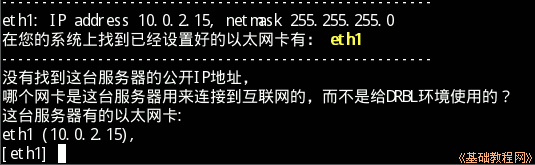
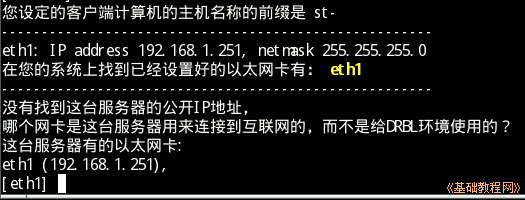
add Tedrbl/lesson3

diff --git a/linux/Tedrbl/lesson3/lesson3.html b/linux/Tedrbl/lesson3/lesson3.html
@@ -4,6 +4,11 @@
 
 
 
+
+
+
+
+
   <meta content="text/html; charset=UTF-8" http-equiv="content-type" />
   <meta name="author" content="TeliuTe" />
   <meta name="Copyright" content="TeliuTe,基础教程网" />
@@ -11,41 +16,110 @@
   <meta name="keywords" content="DRBL,无盘,教程,TeliuTe,教学,基础,入门" />
 
   <link rel="stylesheet" href="../css/css.css" type="text/css" />
-  <link rel="Shortcut  Icon" href="../css/qcqy.ico" /><title>DRBL 基础|</title></head><body style="direction: ltr;">
+  <link rel="Shortcut  Icon" href="../css/qcqy.ico" /><title>DRBL 基础|生成客户机系统</title></head><body style="direction: ltr;">
 <p class="title">DRBL 操作指南</p>
 <p class="green">作者：TeliuTe　来源：基础教程网</p>
-<span class="tblue">一、</span>　<a href="../index.html">返回目录</a>　<a href="../lesson/lesson.html">下一课</a>
-<p>　；</p>
-<p class="tblue">　1、</p>
-<p>　1）；</p>
+<span class="tblue">三、生成客户机系统</span>　<a href="../index.html">返回目录</a>　<a href="../lesson4/lesson4.html">下一课</a>
+<p>　服务端程序安装好以后，就可以安装客户机的启动系统；</p>
+<p class="tblue">　1、生成客户机系统</p>
+<p>　1）进入终端，输入命令 &nbsp;sudo /opt/drbl/sbin/drblpush -i</p>
+<p>　<img src="images/a1dpb.png" alt="a1dpb.png" /></p>
 <p>　</p>
+<p>　2）在出来的域名服务器地址中输入DNS，或者直接按回车；</p>
+<p>　<img src="images/a2dns.png" alt="a2dns.png" /></p>
 <p>　</p>
-<p>　2）；</p>
+<p>　3）接下来的 NIS/YP 服务系统，直接按回车或输入一个名称；</p>
+<p>　<img src="images/a3nis.png" alt="a3nis.png" /></p>
 <p>　</p>
+<p>　4）接下来是客户机的名称前缀，输入 st-</p>
+<p>　<img src="images/a4pre.png" alt="a4pre.png" /></p>
 <p>　</p>
-<p>　3）；</p>
+<p>　5）接下来是搜索服务器的网卡，一般是 eth0 也可能是 eth1，直接按回车；</p>
+<p>　<img src="images/a5eth1.png" alt="a5eth1.png" /></p>
 <p>　</p>
+<p>　6）接下来提示服务器上只找到一块网卡，是否继续，输入 y 按回车继续；</p>
+<p>　<img src="images/a6y.png" alt="a6y.png" /></p>
 <p>　</p>
-<p>　4）；</p>
+<p>　7）接下来询问是否收集客户机的网卡信息，输入 y 然后按回车；</p>
+<p>　<img src="images/a7con.png" alt="a7con.png" /></p>
 <p>　</p>
+<p class="tblue">　2、收集客户机网卡信息</p>
+<p>　1）提示开始收集，这时开启下面的客户机，并选择从网络启动；</p>
+<p>　<img src="images/a8coll.png" alt="a8coll.png" /></p>
 <p>　</p>
-<p>　5）；</p>
+<p>　2）等所有客户机都开启后，回到服务器按一下 1，看看收集的数量(Total)是否跟预期相同，再输入 2 完成；</p>
+<p>　<img src="images/a9coll.png" alt="a9coll.png" /></p>
 <p>　</p>
+<p>　3）接下来询问是否每次都分配相同 IP，输入 y 按回车继续；</p>
+<p>　<img src="images/b1ip.png" alt="b1ip.png" /></p>
 <p>　</p>
-<p>　6）；</p>
+<p>　4）接下来是客户机的网卡信息保存文件，直接按回车继续，默认存放在 /etc/drbl/macadr-eth0.txt，也可能是macadr-eth1.txt；</p>
+<p>　<img src="images/b2macadr.png" alt="b2macadr.png" /></p>
 <p>　</p>
+<p>　5）接下来是客户机 IP 地址的起始值，一般是从2开始，输入2按回车继续；</p>
+<p>　<img src="images/b3ipst.png" alt="b3ipst.png" /></p>
 <p>　</p>
-<p>　7）；</p>
+<p>　6）然后是确认 IP 是否正确，检查一下输入 y 按回车继续；</p>
+<p>　<img src="images/b4con.png" alt="b4con.png" /></p>
 <p>　</p>
+<p>　7）然后出来一个当前的简介，按回车键继续；</p>
+<p>　<img src="images/b4con1.png" alt="b4con1.png" /></p>
 <p>　</p>
-<p>　8）；</p>
+<p class="tblue">　3、客户机系统</p>
+<p>　1）在出来的客户机系统模式中输入1，这是tmpfs模式，客户机的系统配置不会被随意修改；</p>
+<p>　<img src="images/b5tmfs.png" alt="b5tmfs.png" /></p>
 <p>　</p>
+<p>　2）接下来是再生龙系统的工作模式，同样选择1，这是用在系统备份和还原的系统；</p>
+<p>　<img src="images/b6cbox.png" alt="b6cbox.png" /></p>
 <p>　</p>
-<p>　9）；</p>
+<p>　3）接下来是询问用再生龙备份时的，备份文件存放路径，直接按回车即可，这儿存放客户机系统备份文件；</p>
+<p>　<img src="images/b7img.png" alt="b7img.png" /></p>
 <p>　</p>
+<p>　4）接下来询问是否使用客户机硬盘作为交换文件，输入y继续；</p>
+<p>　<img src="images/b8swap.png" alt="b8swap.png" /></p>
 <p>　</p>
-<p>　<span class="tblue">本节</span>学习了的基础知识，如果你成功地完成了练习，请继续学习下一课内容；</p>
-<p><a href="../index.html">返回目录</a>　<a href="../lesson/lesson.html">下一课</a></p>
+<p>　5）接下来询问用多大硬盘空间，直接按回车即可；</p>
+<p>　<img src="images/b9size.png" alt="b9size.png" /></p>
+<p>　</p>
+<p>　6）接下来是客户机的启动菜单，输入1按回车继续，选择图形模式；</p>
+<p>　<img src="images/c1pic.png" alt="c1pic.png" /></p>
+<p>　</p>
+<p>　7）接下来的客户机登录方式，输入1按回车，选择自动登录；</p>
+<p>　</p>
+<p><img src="images/c2login.png" alt="c2login.png" />　</p>
+<p>　8）接下来的客户机登录密码，输入 n ，也可以输入y自动生成；</p>
+<p><img src="images/c3psw.png" alt="c3psw.png" />　</p>
+<p>　</p>
+<p>　9）接下来输入客户机的用户登录密码，输入两遍然后按回车继续；</p>
+<p>　<img src="images/c4psw.png" alt="c4psw.png" /></p>
+<p>　</p>
+<p class="tblue">　4、客户机系统</p>
+<p>　1）在接下来的客户机管理、开机密码、开机选择系统、等待时间、图形界面、使用音频设备、外网IP、使用终端，都直接按回车继续；</p>
+<p>　<img src="images/c8win.png" alt="c8win.png" /></p>
+<p>　</p>
+<p>　2）一直到您是否要让 DRBL 代理客户机 NAT 上网中，输入 n 不代理，如果选y，则客户机开机后，可以通过服务器代理上网；</p>
+<p>　<img src="images/c9nat.png" alt="c9nat.png" /></p>
+<p>　</p>
+<p>　3）接下来的提示信息，按回车继续；</p>
+<p>　<img src="images/d1con.png" alt="d1con.png" /></p>
+<p>　</p>
+<p>　4）接下来的防火墙改写提示，输入 y 按回车继续；</p>
+<p>　<img src="images/d2fire.png" alt="d2fire.png" /></p>
+<p>　</p>
+<p>　5）然后耐心等待生成系统，出现命令提示符就完成了；</p>
+<p>　<img src="images/d3fin.png" alt="d3fin.png" /></p>
+<p>　</p>
+<p>　6）这时重新启动客户机，就会出现 DRBL 无盘系统的启动界面；</p>
+<p>　<img src="images/d4drbl.png" alt="d4drbl.png" /></p>
+<p>　</p>
+<p>　7）然后耐心等待系统启动，一般会自动启动进入系统，如果没有就用用户名和密码登录；</p>
+<p>　<img src="images/d5login.png" alt="d5login.png" /></p>
+<p>　</p>
+<p>　8）如果不能用户名登录，可以用下一节的添加 DRBL 用户的命令手动添加用户；</p>
+<p>　管理命令参考：<a href="http://drbl.nchc.org.tw/one4all/desktop/drbl-cmd-list.php">http://drbl.nchc.org.tw/one4all/desktop/drbl-cmd-list.php</a></p>
+<p>　</p>
+<p>　<span class="tblue">本节</span>学习了生成客户机系统的基础知识，如果你成功地完成了练习，请继续学习下一课内容；</p>
+<p><a href="../index.html">返回目录</a>　<a href="../lesson4/lesson4.html">下一课</a></p>
 <p class="green">本教程由86团学校TeliuTe制作|著作权所有</p>
 <p class="green">基础教程网：<a href="http://teliute.org/">http://teliute.org/</a></p>
 <p class="green">美丽的校园……</p>

diff --git a/linux/Tedrbl/lesson4/lesson4.html b/linux/Tedrbl/lesson4/lesson4.html
@@ -4,8 +4,6 @@
 
 
 
-
-
   <meta content="text/html; charset=UTF-8" http-equiv="content-type" />
   <meta name="author" content="TeliuTe" />
   <meta name="Copyright" content="TeliuTe,基础教程网" />
@@ -13,32 +11,41 @@
   <meta name="keywords" content="DRBL,无盘,教程,TeliuTe,教学,基础,入门" />
 
   <link rel="stylesheet" href="../css/css.css" type="text/css" />
-  <link rel="Shortcut  Icon" href="../css/qcqy.ico" /><title>DRBL 基础|安装无盘服务</title></head><body style="direction: ltr;">
+  <link rel="Shortcut  Icon" href="../css/qcqy.ico" /><title>DRBL 基础|</title></head><body style="direction: ltr;">
 <p class="title">DRBL 操作指南</p>
 <p class="green">作者：TeliuTe　来源：基础教程网</p>
-<span class="tblue">二、安装无盘服务</span>　<a href="../index.html">返回目录</a>　<a href="../lesson3/lesson3.html">下一课</a>
-<p>　接下来安装无盘相关的服务；</p>
-<p class="tblue">　1、安装无盘服务</p>
-<p>　1）打开终端，输入命令 sudo /opt/drbl/sbin/drblsrv -i 在出来密码提示中，输入自己的密码然后按回车键，默认的选项是大写字母，输入 n 或者直接按回车键，不通过网络安装 Linux；</p>
-<p>　<img src="images/a1dsrv.png" alt="a1dsrv.png" /></p>
+<span class="tblue">一、</span>　<a href="../index.html">返回目录</a>　<a href="../lesson/lesson.html">下一课</a>
+<p>　；</p>
+<p class="tblue">　1、</p>
+<p>　1）；</p>
 <p>　</p>
-<p>　2）接下来是否安装序列控制台，输入 n 或直接按回车键；</p>
-<p>　<img src="images/a2con.png" alt="a2con.png" /></p>
 <p>　</p>
-<p>　3）接下来询问客户机使用什么样的内核，输入2和服务器相同级别的CPU；</p>
-<p>　<img src="images/a3kernel.png" alt="a3kernel.png" /></p>
+<p>　2）；</p>
 <p>　</p>
-<p>　4）然后开始下载软件包，稍等提示是否更新升级操作系统，输入 n 或者按回车键；</p>
-<p>　<img src="images/a4update.png" alt="a4update.png" /></p>
 <p>　</p>
-<p>　5）在询问客户机安装内核时，输入1跟服务器相同的内核；</p>
-<p>　<img src="images/a5kernel.png" alt="a5kernel.png" /></p>
+<p>　3）；</p>
 <p>　</p>
-<p>　6）耐心等待安装完成，如果提示有错误就仔细检查一下，一般 Ubuntu Lts 版本和 Debian 支持的比较好；</p>
-<p>　<img src="images/a6finsh.png" alt="a6finsh.png" /></p>
 <p>　</p>
-<p>　<span class="tblue">本节</span>学习了安装无盘服务的基础知识，如果你成功地完成了练习，请继续学习下一课内容；</p>
-<p><a href="../index.html">返回目录</a>　<a href="../lesson3/lesson3.html">下一课</a></p>
+<p>　4）；</p>
+<p>　</p>
+<p>　</p>
+<p>　5）；</p>
+<p>　</p>
+<p>　</p>
+<p>　6）；</p>
+<p>　</p>
+<p>　</p>
+<p>　7）；</p>
+<p>　</p>
+<p>　</p>
+<p>　8）；</p>
+<p>　</p>
+<p>　</p>
+<p>　9）；</p>
+<p>　</p>
+<p>　</p>
+<p>　<span class="tblue">本节</span>学习了的基础知识，如果你成功地完成了练习，请继续学习下一课内容；</p>
+<p><a href="../index.html">返回目录</a>　<a href="../lesson/lesson.html">下一课</a></p>
 <p class="green">本教程由86团学校TeliuTe制作|著作权所有</p>
 <p class="green">基础教程网：<a href="http://teliute.org/">http://teliute.org/</a></p>
 <p class="green">美丽的校园……</p>
